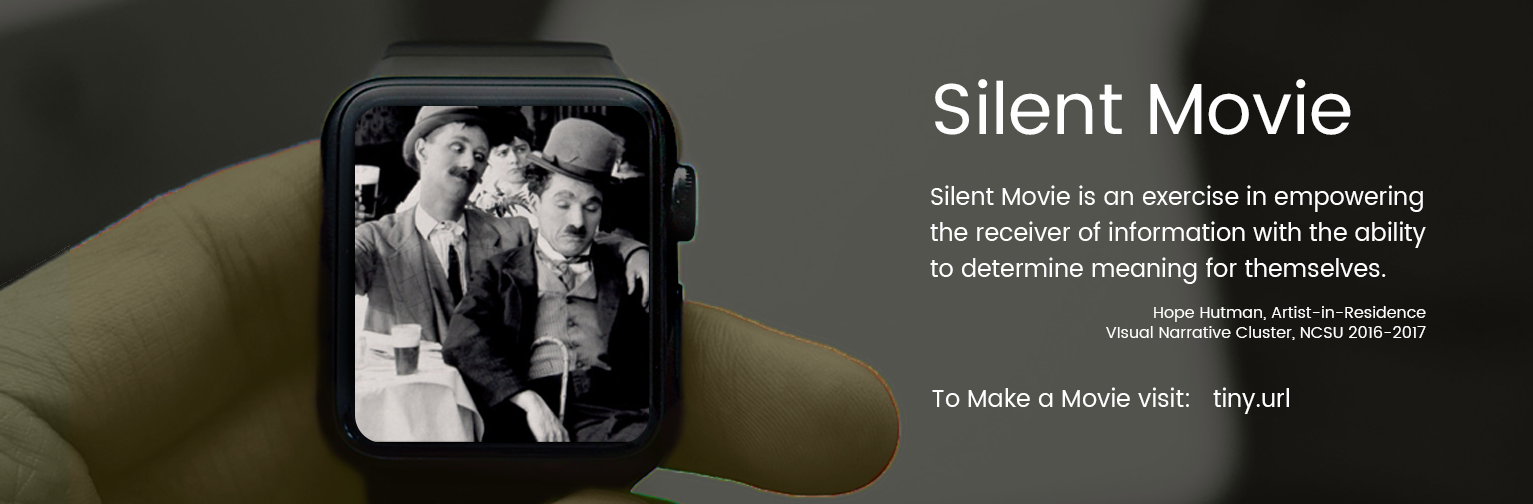
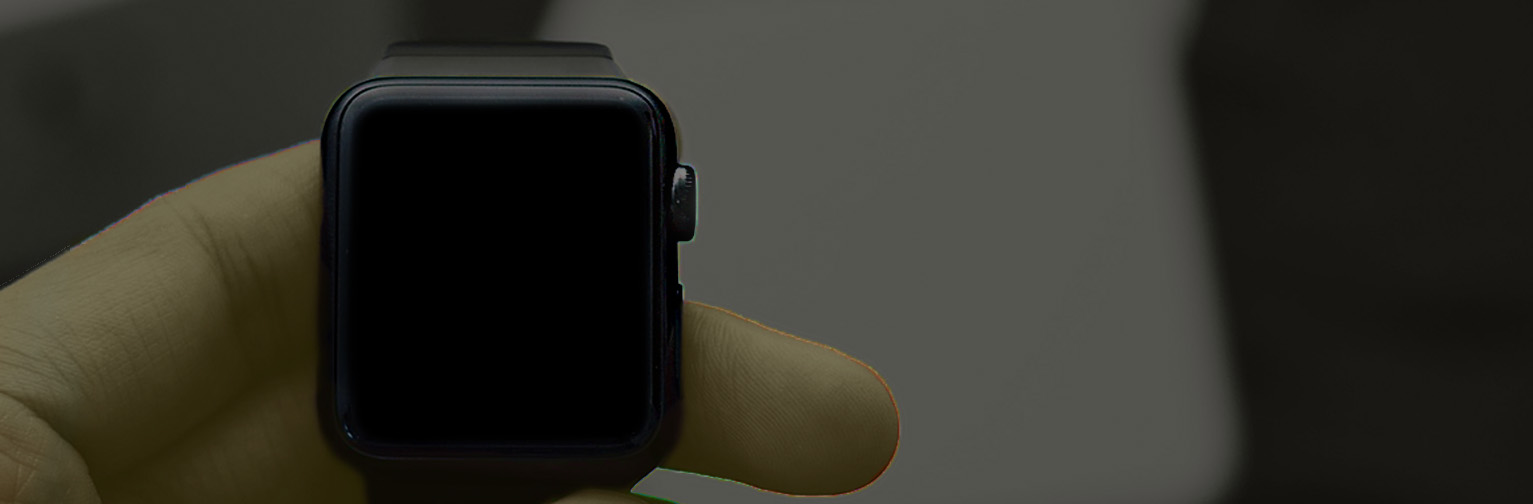
Required changes to iPearl theater (SEE DESC)
playbutton.jpg : made the button smaller
theater.png: modified image to exclude text
title.svg: the new title for the silent movie theater page
theater.css: added styling for the new theater page text, adjusted some
style settings of player for better visuals
theater.pug: adjusted template to add new text

diff --git a/public/stylesheets/theater.css b/public/stylesheets/theater.css
@@ -1,15 +1,28 @@
 /* Styling for the Theater Page */
 .theater-text {
   position: absolute;
+  padding: 1em;
   width: 100%;
   z-index: 10;
   color: gray;
   visibility: visible;
+  background: black;
+  min-height: 4em;
 }
 .theater-text-container {
   margin: auto;
 }
 
+.info, .link {
+  display: none;
+}
+
+#content-feed-container {
+  width: 100vw;
+  height: 100vh;
+  padding: 0;
+  margin: 0;
+}
 
 /* For Laptops */
 @media only screen and (min-device-width: 1024px) {
@@ -19,20 +32,57 @@
   }
 }
 
-@media (min-device-width: 1400px) {
+/* Please set this to 6000px when not testing */
+@media (min-device-width: 6000px){
   #content-feed-container {
     padding-left: 23%;
     padding-top: 6.8%;
-    width: 43%;
+    width: 42.6%;
     height: 88%;
   }
-
+  
+  #contentfeed, #contentfeed2 {
+    border-radius: 10em;
+  }
+  
   .theater-full {
     height: 100%;
     width: 100%;
     background-image: url("../content/images/theater.png");
     background-size: 100% 100%;
   }
+  
+  @import url('https://fonts.googleapis.com/css?family=Roboto:400,500');
+
+  .info, .link {
+    display: block;
+    position: fixed;
+    right: 2em;
+    font-size: 7em;
+    width: 35vw;
+    text-align: left;
+    font-family: 'Roboto', sans-serif
+  }
+  
+  .info {
+    top: 2em;
+    font-weight: 500;
+  }
+  .link {
+    top: 70%;
+    transform: translateY(-50%);
+  }
+  .link .url {
+    display: block;
+    margin-left: 5.5em;
+  }
+  
+  .info img {
+    height: 4em;
+    display: block;
+    margin-bottom: 1em;
+  }
+
 }
 
 
